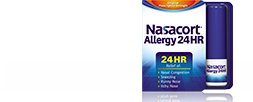
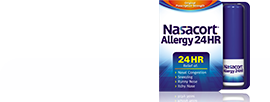
updating text, images and notes for header in homepage for desktop and mobile

diff --git a/app/css/sections/_home-desktop.scss b/app/css/sections/_home-desktop.scss
@@ -696,7 +696,7 @@ body {
     .product-title {
       position: absolute;
       top: 0.9em;
-      left: 37.5%;
+      left: 31%;
       font-size: 0.46em;
       letter-spacing: 0.02em;
       color: #2e2662;
@@ -715,6 +715,7 @@ body {
 
 
     .clinical-study {
+      min-width: 220px;
       position: absolute;
       top: 4.1em;
       left: 1.2%;

diff --git a/app/css/sections/_home-mobile.scss b/app/css/sections/_home-mobile.scss
@@ -134,7 +134,7 @@
         z-index: 15;
         p{
           line-height: 15px;
-          width: 124px;
+          width: 150px;
           color: $color-dark-blue;
           display: inline-block;
           position: absolute;
